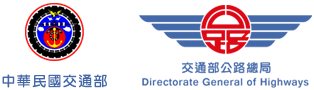
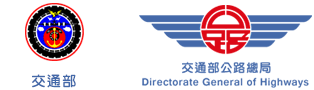
頁面修改 #20150819
1.首頁左上方中華民國交通部，請通通改為 交通部即可
2.相關連結處中華民國交通部，請通通改為 交通部即可
交通部右方請再多增加一個交通部公路總局網站
交通部公路總局台中區監理所 台請改為大寫臺

Changed region(s): [[0.0, 0.8222, 0.3439, 0.9778]]

diff --git a/link.html b/link.html
@@ -62,11 +62,13 @@
                      <div class="box_link">
                         <ul>
                             <li><a href="https://www.youtube.com/watch?v=hygSSE9P5m4&feature=youtu.be" title="Youtube" rel="external">Youtube</a>
-                                 <h4>Youtube<br>影片播放</h4></li>
-                            <li><a class="icon-office-02" href="http://www.motc.gov.tw/ch/index.jsp" title="中華民國交通部" rel="external">中華民國交通部</a>
-                                <h4>中華民國交通部</h4></li>     
-                            <li><a class="icon-office" href="http://tmv.thb.gov.tw/" title="中華民國交通部公路總局台中區監理所" rel="external">中華民國交通部公路總局台中區監理所</a>
-                                <h4>交通部公路總局<br>台中區監理所</h4></li>
+                                 <h4>Youtube</h4></li>
+                            <li><a class="icon-office-02" href="http://www.motc.gov.tw/ch/index.jsp" title="交通部" rel="external">交通部</a>
+                                <h4>交通部</h4></li>
+                            <li><a class="icon-office" href="http://www.thb.gov.tw/" title="交通部公路總局" rel="external">交通部公路總局</a>
+                                <h4>交通部公路總局</h4></li>         
+                            <li><a class="icon-office-03" href="http://tmv.thb.gov.tw/" title="交通部公路總局臺中區監理所" rel="external">交通部公路總局台中區監理所</a>
+                                <h4>交通部公路總局<br>臺中區監理所</h4></li>
                         </ul>
                         <br class="clean">
                      </div>

diff --git a/css/xuepage_201508.css b/css/xuepage_201508.css
@@ -389,12 +389,12 @@ footer .txt_ad{
 	display:block;
 	float:left;
 	width:150px;
-	margin-right:50px}
+	margin:0 0 30px 50px}
 .box_link li h4{
 	font-size:1em;
 	text-align:center;
 	line-height:22px;
-	padding-top:15px;
+	padding-top:5px;
 	text-shadow:1px 1px 0 #FFFCFE}		
 .box_link li a{
 	display:block;
@@ -404,4 +404,5 @@ footer .txt_ad{
 	text-indent:-9999px;
 	margin:0 auto}
 .box_link li a.icon-office{ background-position:0 -132px}
-.box_link li a.icon-office-02{ background-position:0 -264px}	
+.box_link li a.icon-office-02{ background-position:0 -264px}
+.box_link li a.icon-office-03{ background-position:0 -396px}	

diff --git a/css/xuedesign_201508.css b/css/xuedesign_201508.css
@@ -71,7 +71,7 @@ h1 a{
 	display:block;
 	position:absolute;
 	top:15px;
-	left:35px;
+	left:22px;
 	width:314px;
 	height:90px;
 	background:url(../images/pic_h1.png) no-repeat;
